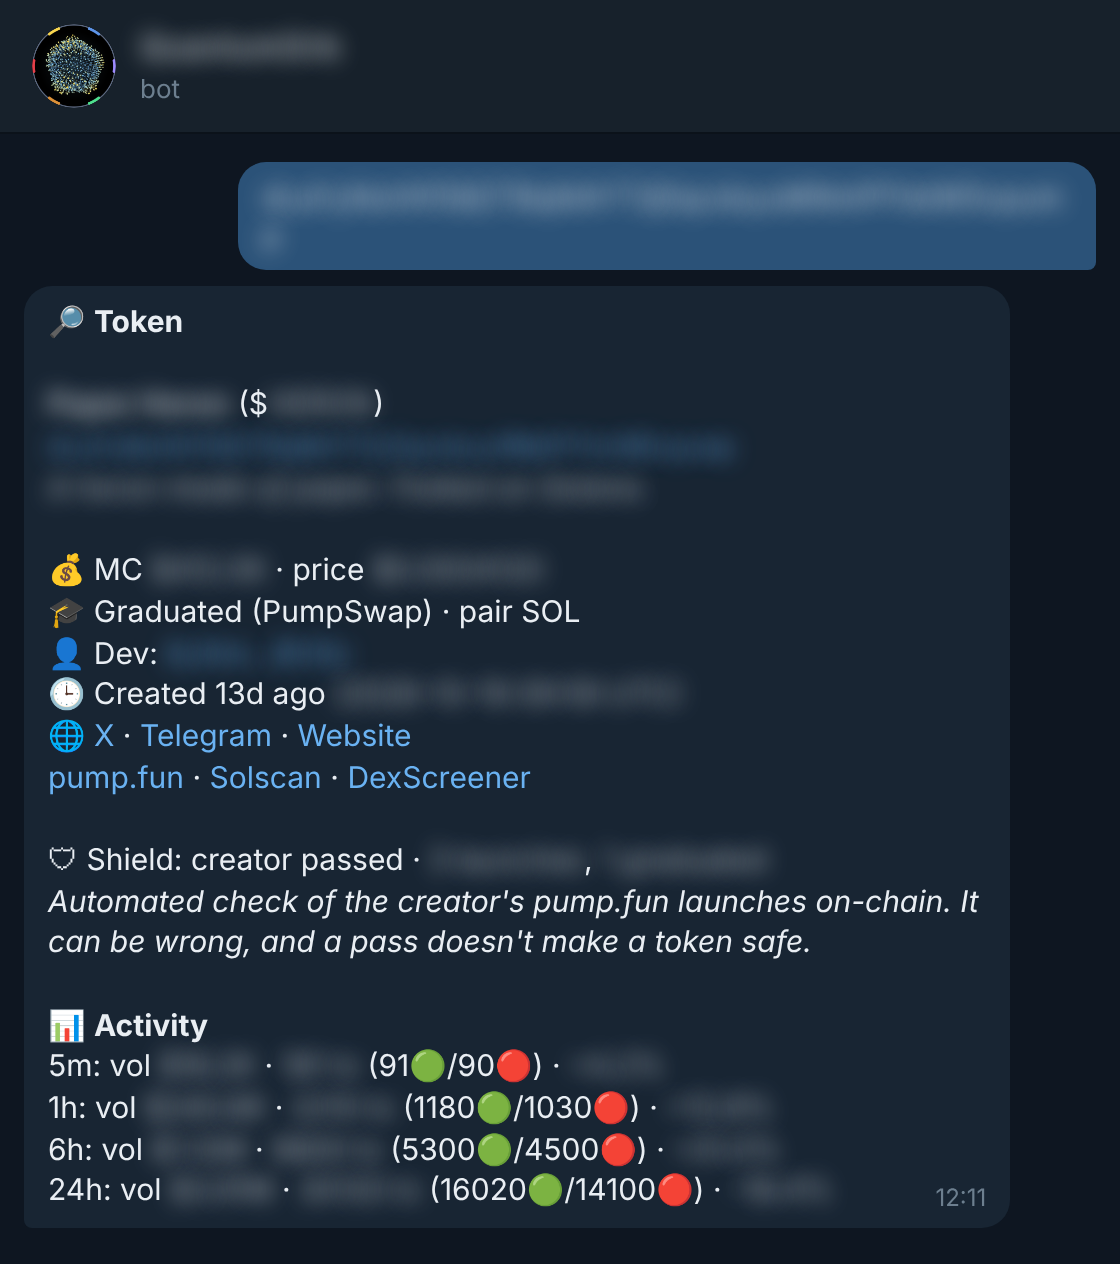
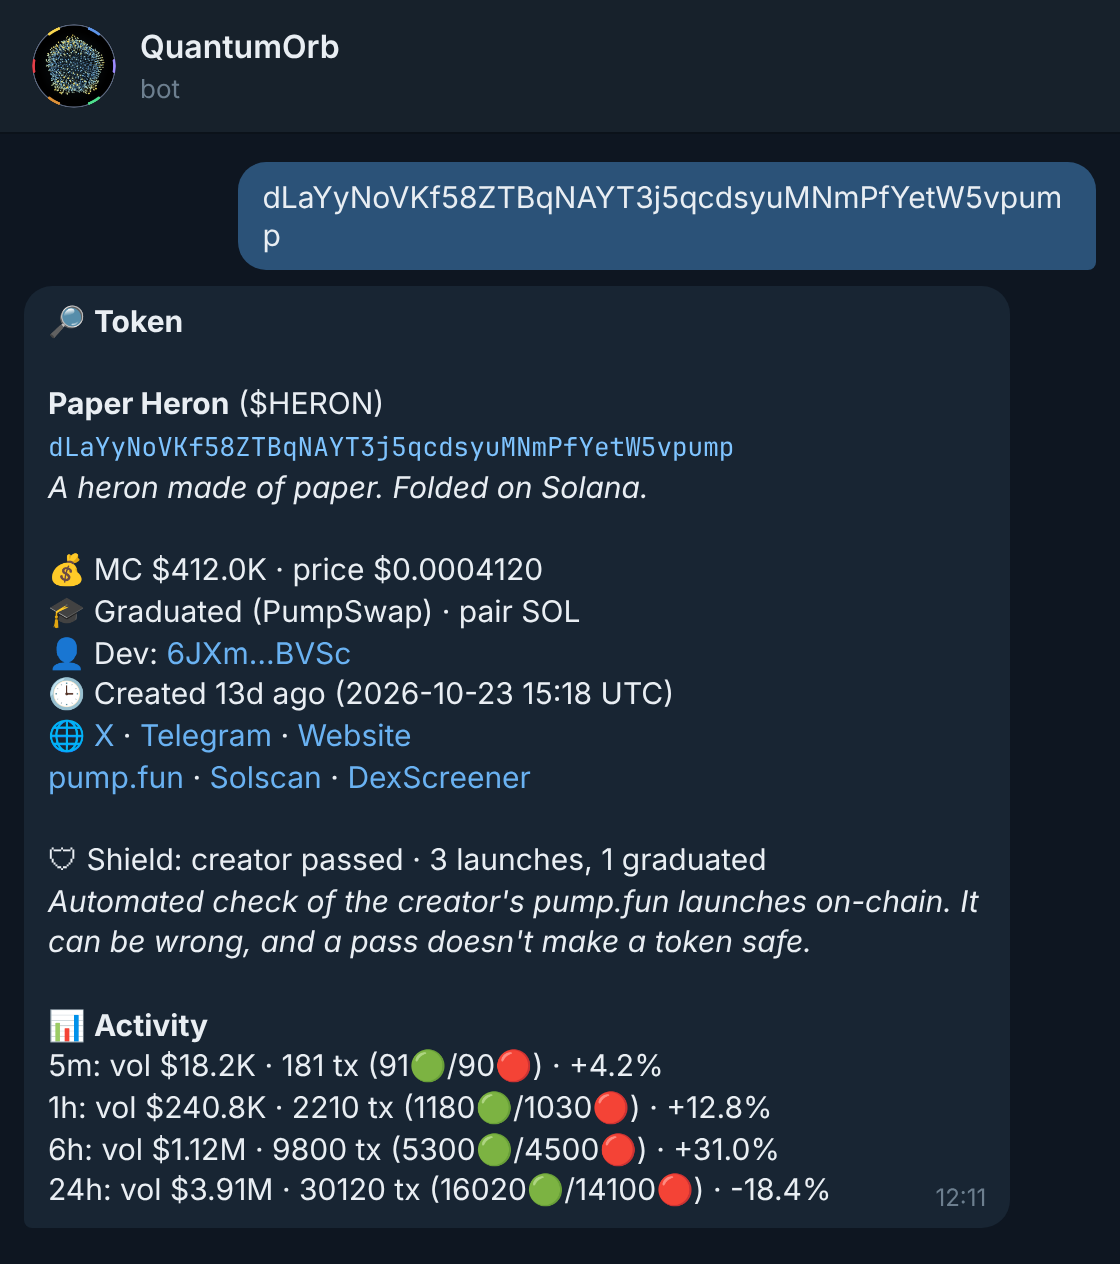
Release screens: the site with the bot open, the roadmap, the bot unblurred
Claude-Session: https://claude.ai/code/session_017ocytnmYWg6rLqQ68Spbr9

diff --git a/assets/README.md b/assets/README.md
@@ -5,5 +5,4 @@ Images for the README.
 - `banner.png` · 1280 × 640, also the repository's social preview.
 - `screens/` · the site and the bot. The site's screens come from a development build running on a
   simulated chain, so every token, wallet and figure on them is made up. The bot's screens are its own
-  messages on made-up data, with the bot's name, coin names, addresses, figures and descriptions hidden
-  until it opens.
+  messages, [@QuantumORB_bot](https://t.me/QuantumORB_bot), on made-up tokens and wallets.
